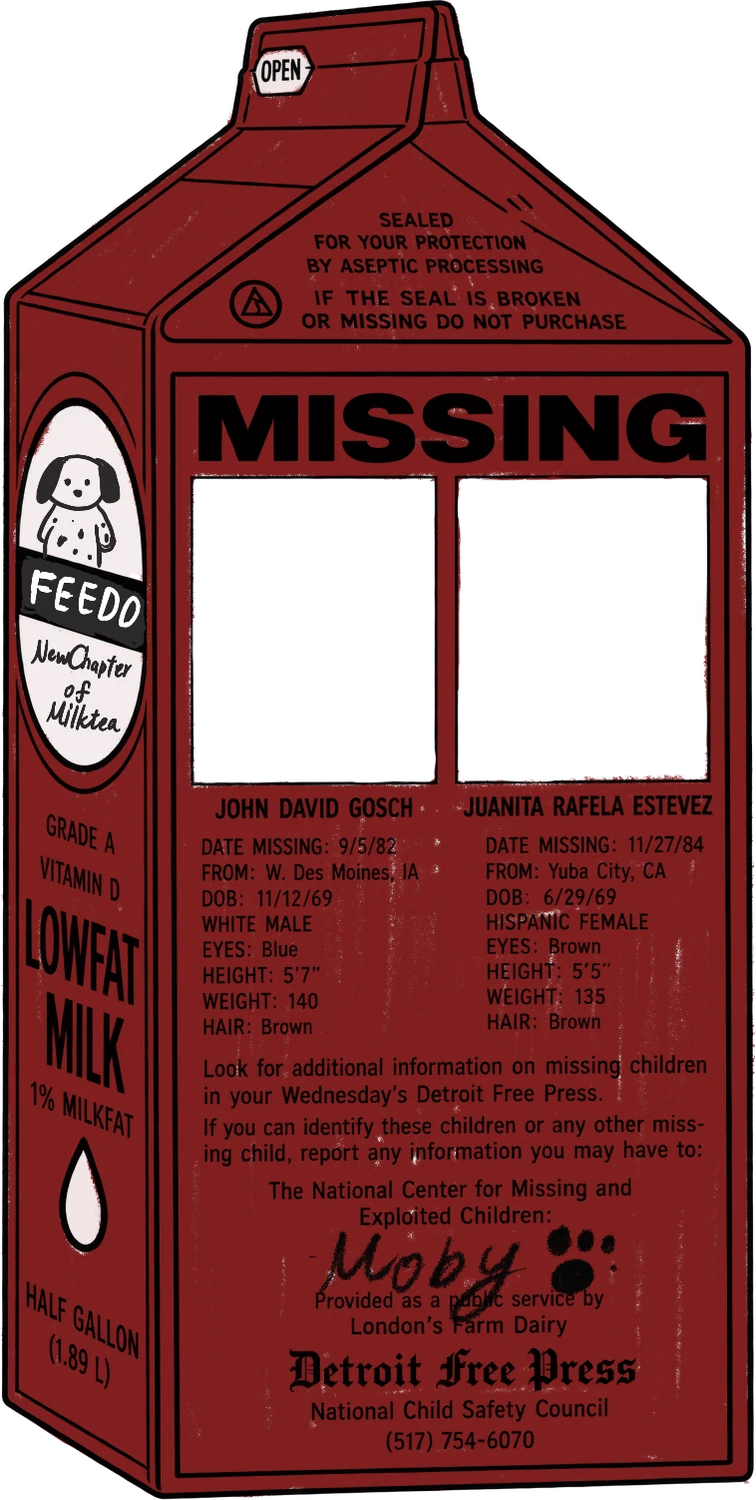
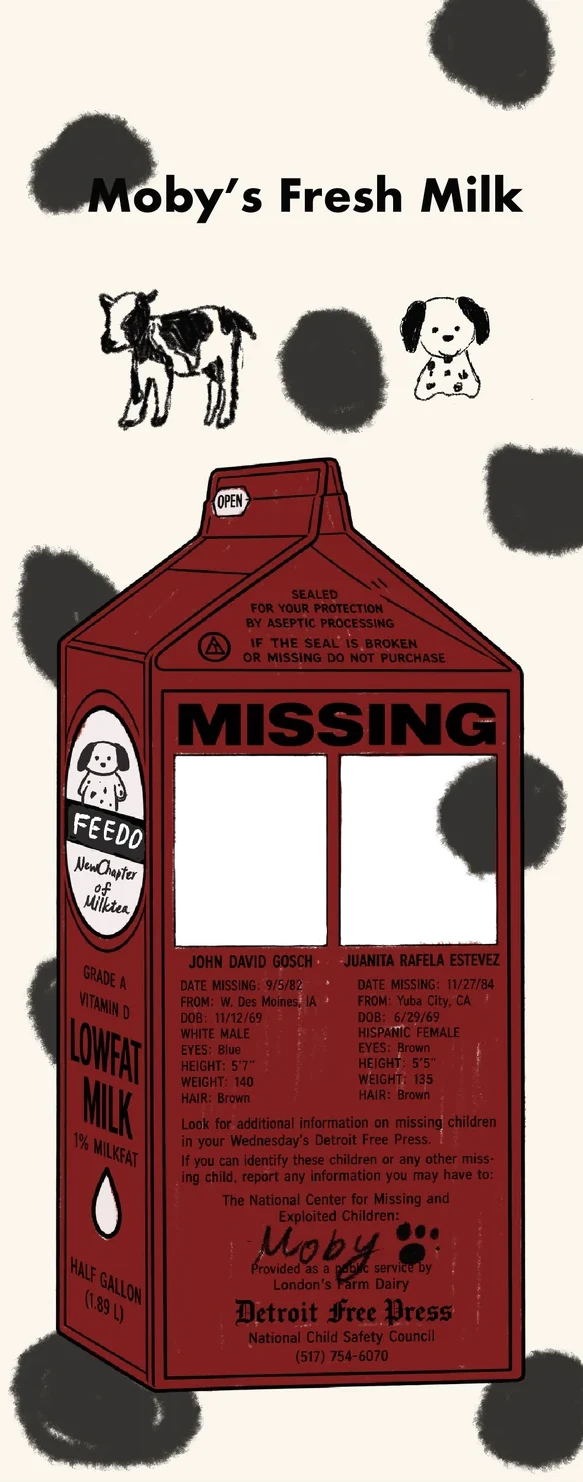
換第二批手繪模板:Moby's Show / Fresh Milk / 拍立得 3 連張 / 鮮奶油店 / 證件照藍粉
- 新插畫的照片框是上色的,不是透明洞。匯出時用顏色 + 黑色輪廓線偵測後挖空,
  邊緣沿著「越來越暗」的方向做柔邊,不會越過輪廓線。牛奶盒右格被乳牛斑點蓋住,
  改成只挖白色像素,斑點留在照片上面。
- 直式模板裁到卡片矩形:斑點和狗掌畫出卡片外,會露出深墨底色。
- 證件照是橫式:預覽同時限制寬高、確認頁與成品頁給寬版。
- 模板加 frame 欄位:證件照送 frame=id、Moby's Show 的 id 是 moby,
  對回房間 GEAR_RULES(吊繩/領結)。ROOM_LIVE 仍關著。
- 模板圖網址加 ASSET_V 版本號。檔名沿用但尺寸和照片框位置會變,
  GitHub Pages 快取 10 分鐘,舊圖配新座標會讓照片被插畫蓋住。
- 移除不再使用的 tv.webp。

diff --git a/index.html b/index.html
@@ -93,6 +93,7 @@
   /* ===== 確認 ===== */
   #screen-check{justify-content:center;}
   #checkImg{max-width:210px;width:100%;height:auto;display:block;box-shadow:0 4px 20px rgba(0,0,0,.16);margin-bottom:24px;}
+  #checkImg.wide,#outImg.wide{max-width:320px;}
 
   /* ===== 列印(成品從拍貼機吐出來) ===== */
   #screen-print{justify-content:center;}
@@ -227,17 +228,27 @@
 const TRACKER_URL = 'https://script.google.com/macros/s/AKfycbwmBQzkBw4s15BDI_6t3EBdyq6PYzwRGHWJdZAoIVy2ci3hCusI9fnyB2PFWPBNp5Sigg/exec';
 
 // ===== 模板設定 =====
-// slots 座標是模板圖原尺寸下的挖空位置 [x, y, w, h],由插畫透明區自動量測得出
+// slots 是模板圖原尺寸下的照片框 [x, y, w, h]。
+// 插畫的照片框是有上色的,匯出時用顏色 + 黑色輪廓線偵測出來再挖成透明,座標從挖好的洞量測。
+// frame:送到房間的圖框名稱(不填就用 id)。房間的 GEAR_RULES 認 'id'(吊繩)和 'moby'(領結)。
 const TEMPLATES = [
-  {id:'polaroid', name:'Polaroid 拍立得', src:'images/polaroid.webp', w:978, h:1500,
-    slots:[[422,923,490,510]]},
-  {id:'milk', name:'MISSING 牛奶盒', src:'images/milk.webp', w:756, h:1500,
-    slots:[[193,479,242,303],[458,479,249,303]]},
-  {id:'tv', name:'Moby 電視牆', src:'images/tv.webp', w:834, h:1500,
-    slots:[[203,416,331,272],[199,789,333,270],[200,1156,333,268]]},
-  {id:'cream', name:'鮮奶油專賣店', src:'images/cream.webp', w:933, h:1500,
-    slots:[[176,172,176,237],[603,172,176,237],[166,910,176,237],[599,912,175,237]]}
+  {id:'moby', name:"Moby's Show", src:'images/moby.webp', w:587, h:1495,
+    slots:[[141,541,233,190],[139,802,233,189],[141,1058,232,187]]},
+  {id:'milk', name:"Moby's Fresh Milk", src:'images/milk.webp', w:583, h:1482,
+    slots:[[176,756,150,189],[341,756,155,189]]},
+  {id:'polaroid', name:'拍立得 3 連張', src:'images/polaroid.webp', w:587, h:1492,
+    slots:[[177,522,260,270],[161,827,268,281],[169,1143,268,276]]},
+  {id:'cream', name:'鮮奶油專賣店', src:'images/cream.webp', w:587, h:1494,
+    slots:[[217,229,187,252],[225,904,177,239]]},
+  {id:'idblue', frame:'id', name:'證件照 · 藍', src:'images/idblue.webp', w:1413, h:880,
+    slots:[[116,154,509,586]]},
+  {id:'idpink', frame:'id', name:'證件照 · 粉', src:'images/idpink.webp', w:1414, h:881,
+    slots:[[117,154,509,586]]}
 ];
+// 模板圖的檔名會沿用,但換圖時尺寸和照片框位置都會變。如果瀏覽器或 CDN 還拿著舊圖,
+// 新座標套在舊圖上就會錯位(照片被插畫蓋住,只露出一條邊)。換模板圖時一定要改這個版本號。
+const ASSET_V = '20260914';
+TEMPLATES.forEach(t => { t.src += '?v=' + ASSET_V; });
 const COUNT_FROM = 3;
 // 成品底色:插畫是去背的,這個顏色會出現在輪廓外的凹角。
 // 深墨比紙色好的原因:限動的底本來就是黑的,接上去等於滿版;
@@ -293,7 +304,10 @@ function applyFilter(ctx, w, h){
 // ===== 模板輪播 =====
 function drawPreview(){
   const t = tpl(), im = tplImgs[t.id];
-  const cv = $('tplPreview'), scale = 300 / t.h;      // 預覽高度固定 300px
+  // 同時限制寬和高:直式模板吃滿高度,橫式(證件照)吃滿寬度,都不會變形。
+  // 畫面還沒顯示時 clientWidth 是 0,先用 260 頂著,enter() 會再畫一次
+  const stageW = document.querySelector('.tpl-stage').clientWidth || 260;
+  const cv = $('tplPreview'), scale = Math.min(300 / t.h, stageW / t.w);
   cv.width = Math.round(t.w*scale); cv.height = Math.round(t.h*scale);
   cv.style.width = cv.width+'px'; cv.style.height = cv.height+'px';
   const ctx = cv.getContext('2d');
@@ -509,6 +523,9 @@ function compose(){
   if(im.complete && im.naturalWidth) ctx.drawImage(im, 0, 0, t.w, t.h);
   outUrl = cv.toDataURL('image/png');
   $('outImg').src = outUrl;
+  const wide = t.w > t.h;
+  $('outImg').classList.toggle('wide', wide);
+  $('checkImg').classList.toggle('wide', wide);
   $('dlBtn').href = outUrl;
   $('dlBtn').setAttribute('download', 'feedo-'+t.id+'.png');
 }
@@ -644,14 +661,14 @@ function saveToRoom(){
   u.searchParams.set('h',ROOM_H);
   // 房間用這個值算「用某個圖框拍過」的解鎖條件(roomModel.js 的 GEAR_RULES),
   // 也會印在照片下方。改模板 id 的話那邊要一起改。
-  u.searchParams.set('frame',tpl().id);
+  u.searchParams.set('frame',tpl().frame || tpl().id);
   stopCamera();
   location.href=u.toString();
 }
 // 跟房間的 LINKS.boothReady 是一組,兩邊一起開(2026-09-12 遊戲定版上線後打開)。
-// 2026-09-13 改版時先關掉:新模板的 id(polaroid/milk/tv/cream)跟房間
-// GEAR_RULES 綁的舊名稱(id/moby)對不上,吊繩和領結會沒人解得開。
-// 等那邊的規則更新後再打開 —— 打開前記得房間的 LINKS.boothReady 也要一起開。
+// 2026-09-13 改版時先關掉:當時的模板 id 跟房間 GEAR_RULES 綁的名稱(id/moby)對不上。
+// 2026-09-14 換模板後已對齊:證件照送 frame=id(吊繩)、Moby's Show 的 id 是 moby(領結),
+// 房間那邊不用改。仍然關著是因為還沒決定重開 —— 打開前記得房間的 LINKS.boothReady 也要一起開。
 const ROOM_LIVE=false;
 $('toRoomBtn').onclick=saveToRoom;
 if(!ROOM_LIVE && !/^(localhost|127\.0\.0\.1)$/.test(location.hostname)) $('toRoomBtn').style.display='none';
